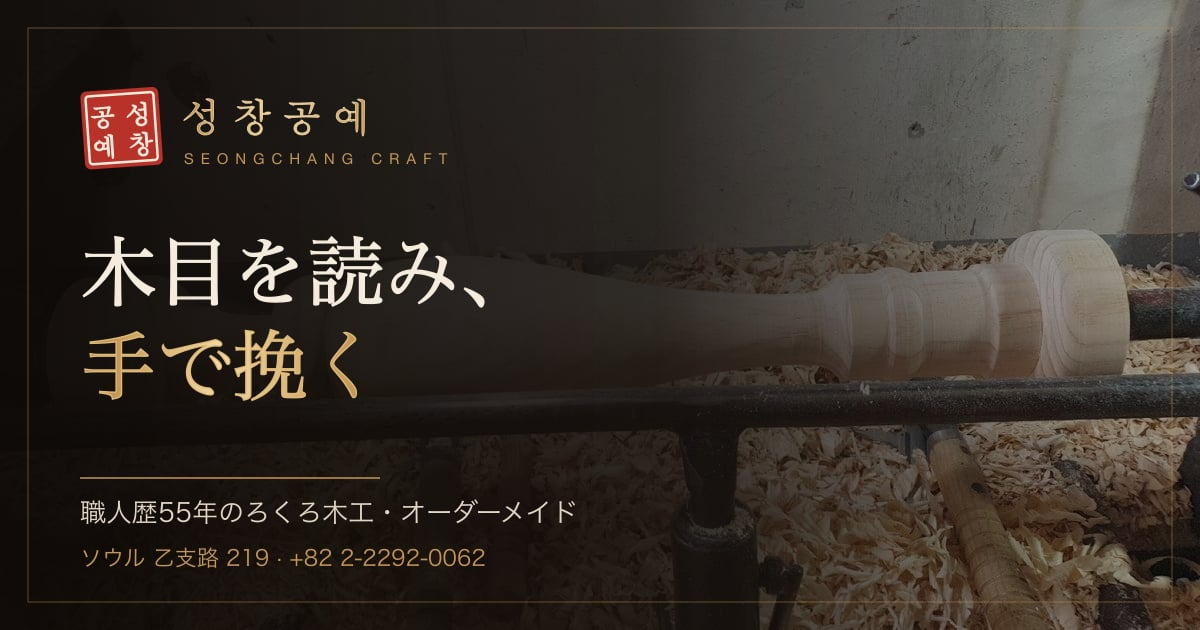
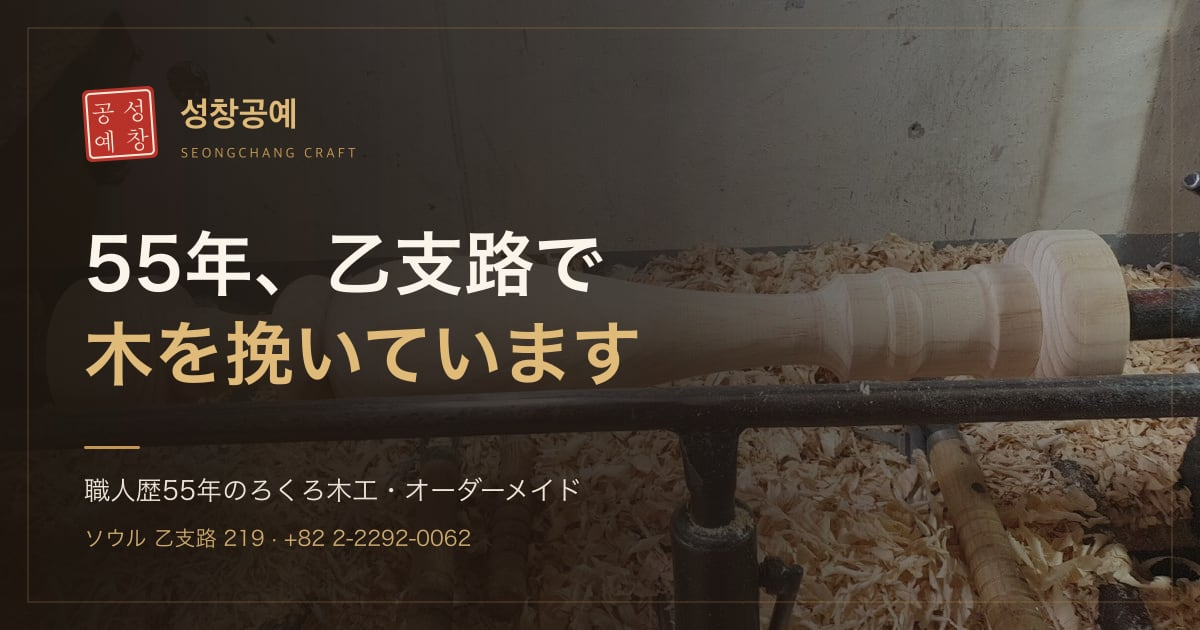
copy: 첫 화면·작업 분야·주문 문구를 친근하게 (4개 언어), 공유 이미지 새 문구로

diff --git a/src/i18n/ja.ts b/src/i18n/ja.ts
@@ -38,9 +38,9 @@ const ja: Dict = {
   },
   intro: { sub: '55年、木を挽き、暮らしの道具をつくる', enter: '画面をタップして入る' },
   hero: {
-    kicker: '職人歴55年 · 乙支路のろくろ工房',
-    title1: '木目を読み、',
-    title2: '手で挽く',
+    kicker: 'ろくろ（木工旋盤）工房 · 注文制作',
+    title1: '55年、乙支路で',
+    title2: '木を挽いています',
     lead: '55年ろくろを回してきた職人が、ひとつひとつ自ら挽きます。',
     tags: '木の器 · モールディング・裁断 · 量産 · 放送局への納品 · 学生作品',
     order: 'ご注文の相談',
@@ -80,8 +80,8 @@ const ja: Dict = {
     metaTitle: 'ソンチャン工芸 — 職人歴55年のろくろ木工・オーダーメイド | ソウル乙支路',
     metaDescription:
       'ソウル乙支路のソンチャン工芸（성창공예）。職人歴55年のろくろ挽きによる木の器、量産、放送局への納品、モールディング・裁断、学生作品、木工品全般をオーダーメイドで承ります。月〜土 8:00〜18:00。',
-    servicesTag: '職人の技',
-    servicesTitle: '手で仕上げる、四つの技',
+    servicesTag: 'ソンチャン工芸の仕事',
+    servicesTitle: 'こんなものをつくっています',
     servicesLead: '図面一枚、見本ひとつあれば十分です。思いどおりの形を、必要な数だけ正確に挽きます。',
     ribbonTag: '手で挽いたもの',
     ribbonTitle: '乙支路の工房から生まれたもの',
@@ -110,8 +110,8 @@ const ja: Dict = {
     featuredLead: '写真を押すと大きく表示されます。',
     allWorks: (n: number) => `作品をすべて見る（${n}点）`,
     orderTag: 'ご注文',
-    orderTitle: 'つくりたいものはありますか?',
-    orderLead: '写真や図面、おおよそのサイズを教えていただければ、つくり方とお見積もりをご案内します。',
+    orderTitle: '写真一枚で大丈夫です',
+    orderLead: 'お気軽にご相談ください。写真や図面、おおよそのサイズを教えていただければ、つくり方とお見積もりをご案内します。',
     orderForm: 'ご注文フォーム',
     sendPhoto: 'SMSで写真を送る',
     newsTitle: 'お知らせ',

diff --git a/src/i18n/ko.ts b/src/i18n/ko.ts
@@ -41,9 +41,9 @@ const ko = {
     enter: '화면을 누르면 입장합니다',
   },
   hero: {
-    kicker: '55년 장인 · 을지로 목선반 공방',
-    title1: '나뭇결을 읽고,',
-    title2: '손으로 깎습니다',
+    kicker: '로구로(목선반) 공방 · 주문 제작',
+    title1: '55년째, 을지로에서',
+    title2: '나무를 깎습니다',
     lead: '55년 동안 로구로(목선반)를 돌려 온 장인이 직접 깎습니다.',
     tags: '목기 전문 · 몰딩·재단 · 대량 생산 · 방송국 납품 · 학생 작품',
     order: '주문 문의',
@@ -79,8 +79,8 @@ const ko = {
     metaTitle: '성창공예 — 55년 장인의 로구로 목기·몰딩 주문제작 | 서울 을지로',
     metaDescription:
       '서울 을지로 성창공예. 55년 경력 장인의 로구로(목선반) 목기 전문, 대량 생산·방송국 납품, 몰딩·재단, 학생 작품, 각종 목공예품을 주문 제작합니다. 월~토 08:00~18:00.',
-    servicesTag: '장인의 기술',
-    servicesTitle: '손끝으로 완성하는 네 가지 기술',
+    servicesTag: '성창공예가 하는 일',
+    servicesTitle: '이런 것들을 만듭니다',
     servicesLead: '도면 한 장, 견본 하나만 있으면 됩니다. 원하는 모양을 정확히, 원하는 수량만큼 깎아 드립니다.',
     ribbonTag: '손으로 깎은 것들',
     ribbonTitle: '을지로 작업장에서 나온 물건들',
@@ -106,8 +106,8 @@ const ko = {
     featuredLead: '사진을 누르면 크게 볼 수 있습니다.',
     allWorks: (n: number) => `작업물 전체 보기 (${n}점)`,
     orderTag: '주문',
-    orderTitle: '만들고 싶은 것이 있으신가요?',
-    orderLead: '사진이나 도면, 대략적인 크기만 알려 주시면 제작 방법과 견적을 안내해 드립니다.',
+    orderTitle: '사진 한 장이면 충분해요',
+    orderLead: '편하게 물어보세요. 사진이나 도면, 대략적인 크기만 알려 주시면 제작 방법과 견적을 안내해 드립니다.',
     orderForm: '주문서 작성',
     sendPhoto: '문자로 사진 보내기',
     newsTitle: '성창공예 소식',

diff --git a/src/i18n/zh.ts b/src/i18n/zh.ts
@@ -38,9 +38,9 @@ const zh: Dict = {
   },
   intro: { sub: '55年，旋木成器，为生活所用', enter: '轻触屏幕进入' },
   hero: {
-    kicker: '55年匠人 · 乙支路木工车床工坊',
-    title1: '读懂木纹，',
-    title2: '以手雕琢',
+    kicker: '木工车床工坊 · 接受定制',
+    title1: '五十五年来，',
+    title2: '在乙支路车木头',
     lead: '由使用木工车床55年的匠人亲手旋制每一件作品。',
     tags: '木制器皿 · 线条与裁切 · 批量生产 · 电视台供货 · 学生作品',
     order: '订购咨询',
@@ -75,8 +75,8 @@ const zh: Dict = {
     metaTitle: 'Seongchang 工艺 — 55年匠人的车床木器与定制木作 | 首尔乙支路',
     metaDescription:
       '首尔乙支路的 Seongchang 工艺（성창공예）。拥有55年经验的匠人，专做车床木制器皿，承接批量生产、电视台供货、线条裁切、学生作品及各类木工艺品定制。周一至周六 8:00–18:00。',
-    servicesTag: '匠人技艺',
-    servicesTitle: '以手完成的四门手艺',
+    servicesTag: 'Seongchang 工艺做什么',
+    servicesTitle: '我们做这些东西',
     servicesLead: '一张图纸、一个样品就够了。按您想要的形状，精确车削出您需要的数量。',
     ribbonTag: '亲手车制',
     ribbonTitle: '出自乙支路工坊的作品',
@@ -102,8 +102,8 @@ const zh: Dict = {
     featuredLead: '点击照片可放大查看。',
     allWorks: (n: number) => `查看全部作品（${n}件）`,
     orderTag: '订购',
-    orderTitle: '有想做的东西吗？',
-    orderLead: '只需告诉我们照片、图纸或大致尺寸，我们会为您介绍制作方法和报价。',
+    orderTitle: '一张照片就够了',
+    orderLead: '欢迎随时咨询。只需告诉我们照片、图纸或大致尺寸，我们会为您介绍制作方法和报价。',
     orderForm: '填写订单',
     sendPhoto: '短信发送照片',
     newsTitle: '动态',

diff --git a/src/i18n/en.ts b/src/i18n/en.ts
@@ -41,9 +41,9 @@ const en: Dict = {
     enter: 'Tap anywhere to enter',
   },
   hero: {
-    kicker: 'A 55-year master · Woodturning workshop in Euljiro',
-    title1: 'We read the grain,',
-    title2: 'and carve by hand',
+    kicker: 'Woodturning workshop · Made to order',
+    title1: 'Fifty-five years',
+    title2: 'turning wood in Euljiro',
     lead: 'Every piece is turned by a master who has worked the wood lathe for 55 years.',
     tags: 'Wooden tableware · Moldings & cutting · Mass production · Broadcast props · Student projects',
     order: 'Request an Order',
@@ -92,8 +92,8 @@ const en: Dict = {
     metaTitle: 'Seongchang Craft — 55-Year Master Woodturner, Custom Woodwork | Euljiro, Seoul',
     metaDescription:
       'Seongchang Craft in Euljiro, Seoul. A master woodturner with 55 years of experience: wooden tableware, mass production, broadcast props, moldings, student projects and custom woodcraft. Mon–Sat 8 AM–6 PM.',
-    servicesTag: 'The Craft',
-    servicesTitle: 'Four Skills, Finished by Hand',
+    servicesTag: 'What We Do',
+    servicesTitle: 'Here’s What We Make',
     servicesLead:
       'One drawing or one sample is all we need. We turn exactly the shape you want, in exactly the quantity you need.',
     ribbonTag: 'Made by Hand',
@@ -127,8 +127,8 @@ const en: Dict = {
     featuredLead: 'Tap a photo to see it larger.',
     allWorks: (n: number) => `View All ${n} Works`,
     orderTag: 'Order',
-    orderTitle: 'Have something in mind?',
-    orderLead: 'Send us a photo, a drawing or rough dimensions, and we’ll suggest how to make it and give you a quote.',
+    orderTitle: 'One photo is all it takes',
+    orderLead: 'Feel free to ask. Send us a photo, a drawing or rough dimensions, and we’ll suggest how to make it and give you a quote.',
     orderForm: 'Fill in the Order Form',
     sendPhoto: 'Text Us a Photo',
     newsTitle: 'News',
